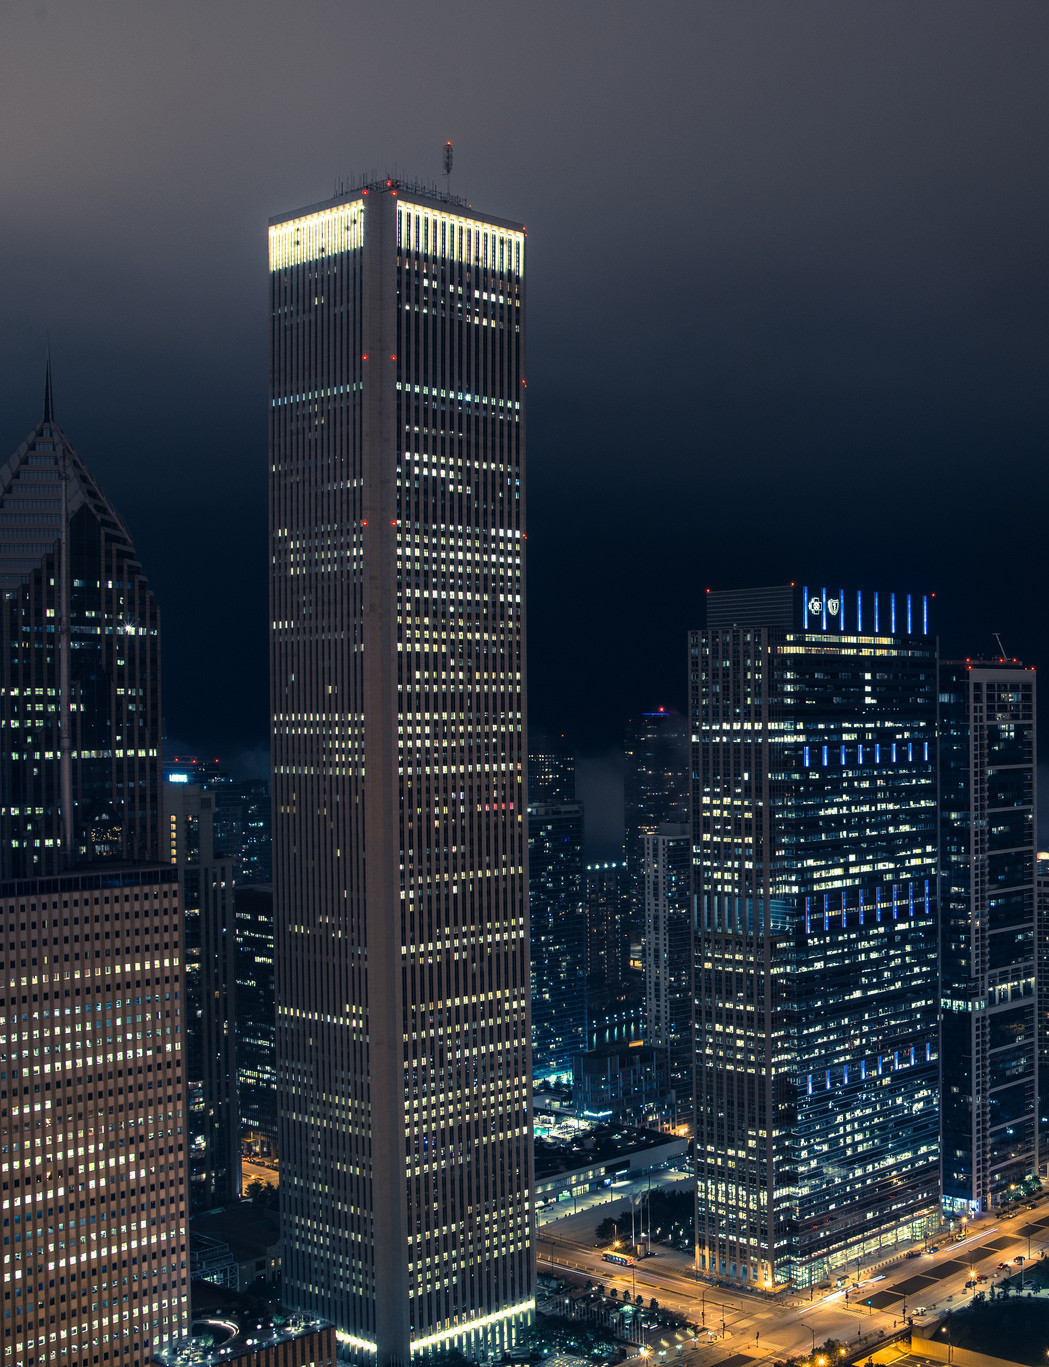
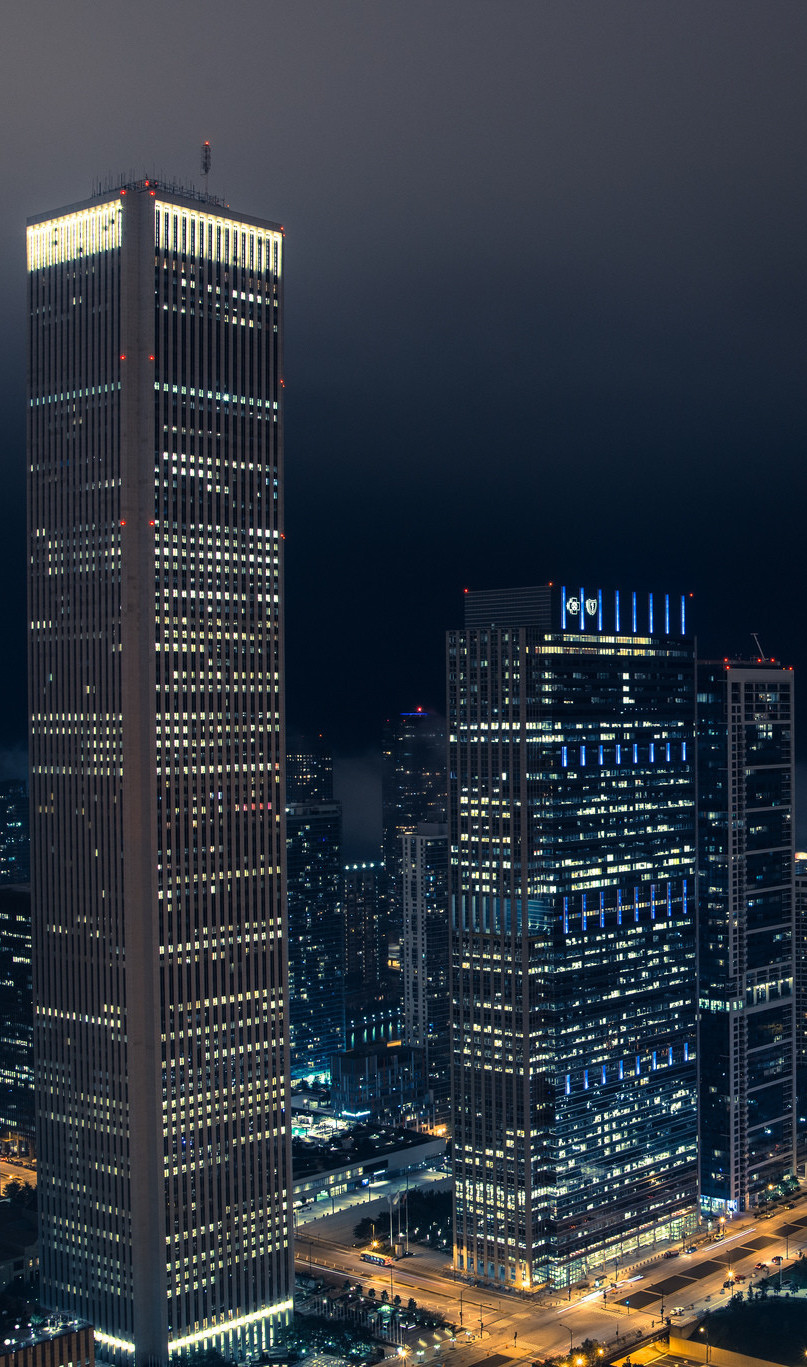
Updated sidebar image to shave off 300KB

diff --git a/source/sass/style.scss b/source/sass/style.scss
@@ -129,7 +129,8 @@ article {
 
 .sidebar {
   padding-top: 20px;
-  background: linear-gradient(150deg, rgba(19, 106, 138, 0.65) 30%, rgba(38, 120, 113, 0.44) 70%) repeat fixed 0px 0px / cover , transparent url("/images/cover.jpg") no-repeat fixed center center / cover;
+  //background: linear-gradient(150deg, rgba(19, 106, 138, 0.65) 30%, rgba(38, 120, 113, 0.44) 70%) repeat fixed 0px 0px / cover , transparent url("/images/cover-new.jpg") no-repeat fixed top left / cover;
+  background: linear-gradient(150deg, rgba(19, 106, 138, 0.65) 30%, rgba(38, 120, 113, 0.44) 70%) repeat fixed 0px 0px / cover , url("/images/cover-new.jpg") no-repeat center center;
   .divider {
     margin: 10px auto;
     border-top: 1px solid rgba(255, 255, 255, 0.14);
